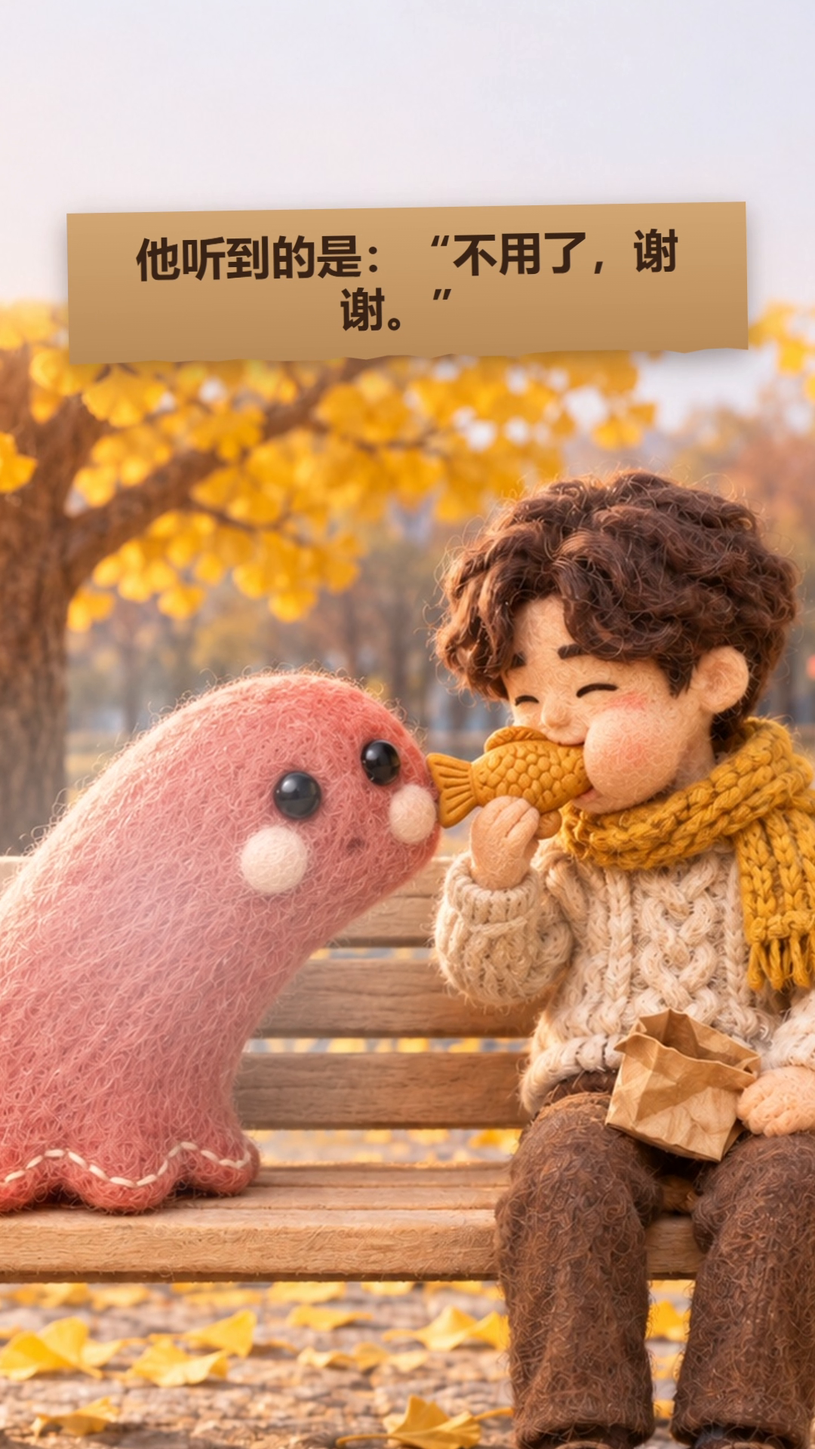
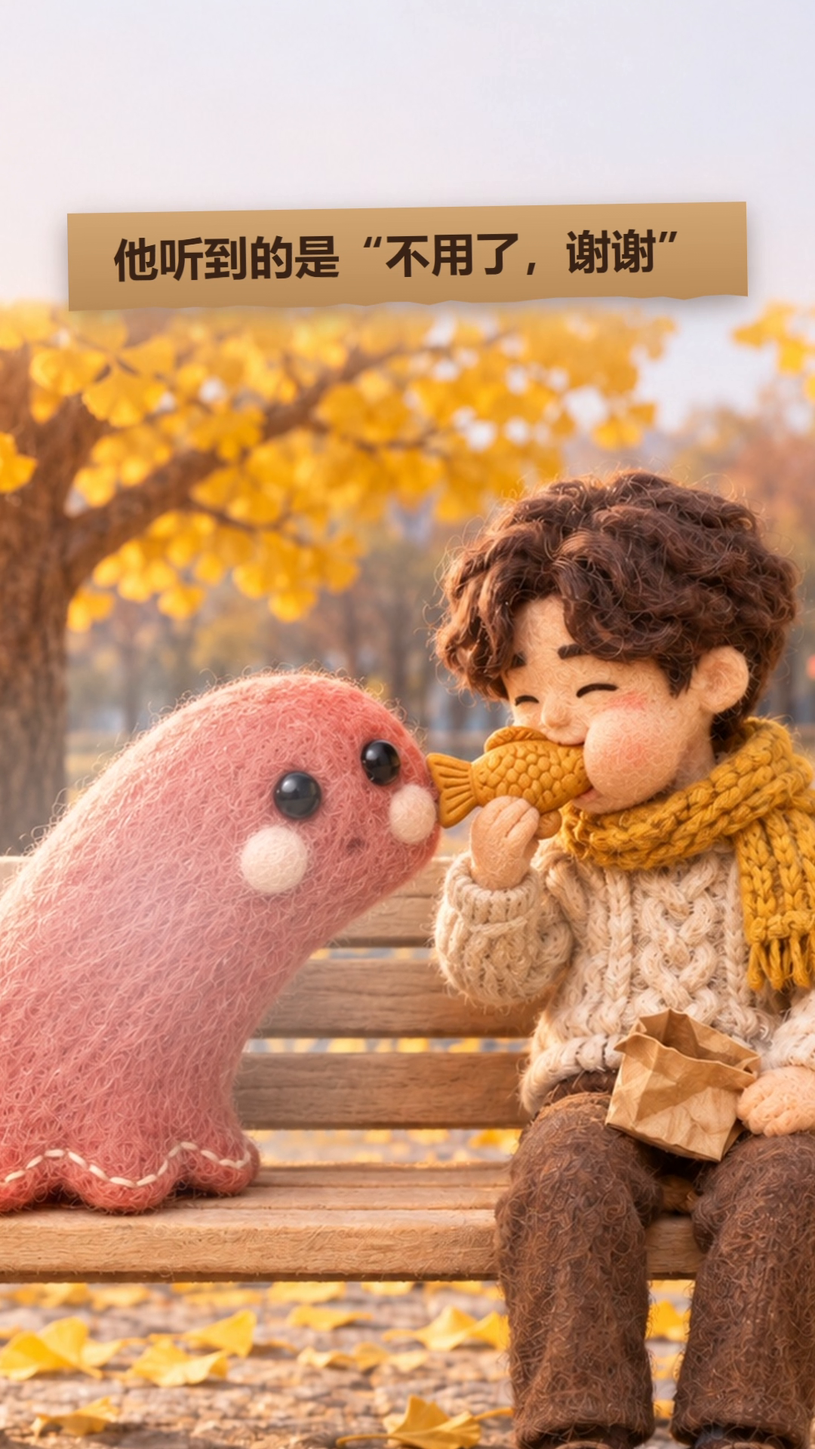
feat(LAB E31 「괜찮아요」 · 11-08 07시 · 마감): v10 — 끝 구도 넓힘(몽글 · 붕어빵 · 굳은 친구 손) · 끝 정리 한 색 · 큰 글 문장부호 뺌 · 머리 글 앱 안전선 아래. 미학 맹검은 아르곤이 다른 세션 올리기 잠금(07:13~)에 막혀 「맹검못함」 + Fable 대신 맹검(v9 끝 기각 → v10 고쳐서 냄 7 · 6 · 6). 올리기 전 검사 고칠 것 0 · 작업실등록

Changed region(s): [[0.0611, 0.1562, 0.9472, 0.2812]]

diff --git a/docs/마케팅/LAB_괜찮아요_20261108/remotion/src/e31/data.ts b/docs/마케팅/LAB_괜찮아요_20261108/remotion/src/e31/data.ts
@@ -30,61 +30,61 @@ type Pack = {
 };
 export const TEXT: Record<Lang, Pack> = {
   en: {
-    hook: `I said 괜찮아요…${NL}and lost my snack.`,
+    hook: `I said 괜찮아요${NL}and lost my snack`,
     bite: 'Want a bite?',
     think: `A bite?! Yes!${NL}I want it!`,
     means: '(I mean: YES!)',
     back: 'Oh, no thanks? Okay!',
     huh: 'Huh? Wait…!',
-    heard: 'He heard: "No, thanks."',
-    ate: '…so he ate it all.',
-    offers: 'When someone offers you something,',
-    no: 'No, thanks.',
-    want: 'Want it? Say:',
+    heard: 'He heard “No, thanks”',
+    ate: '…so he ate it all',
+    offers: 'When someone offers you something',
+    no: 'No, thanks',
+    want: 'Want it? Say',
     yes: 'Yes, please!',
     ask: 'Can I have one bite…?',
-    endHead: 'When someone offers:',
-    endNo: 'No, thanks.',
+    endHead: 'When someone offers',
+    endNo: 'No, thanks',
     endYes: 'Yes, please!',
     size: 64,
     subSize: 44,
   },
   cn: {
-    hook: `我说了“괜찮아요”…${NL}结果小吃没了。`,
+    hook: `我说了“괜찮아요”${NL}结果小吃没了`,
     bite: '要尝一口吗？',
     think: `尝一口？！要要要！${NL}我想吃！`,
     means: '（我的意思是：要！）',
     back: '哦，不吃啊？好嘞！',
     huh: '诶？等等…！',
-    heard: '他听到的是：“不用了，谢谢。”',
-    ate: '…于是他全吃光了。',
-    offers: '别人请你吃东西时，',
-    no: '不用了，谢谢。',
-    want: '想要的话，就说：',
+    heard: '他听到的是“不用了，谢谢”',
+    ate: '…于是他全吃光了',
+    offers: '别人请你吃东西时',
+    no: '不用了，谢谢',
+    want: '想要的话，就说',
     yes: '好呀，我要！',
     ask: '也给我尝一口…？',
-    endHead: '别人请你吃东西时：',
-    endNo: '不用了，谢谢。',
+    endHead: '别人请你吃东西时',
+    endNo: '不用了，谢谢',
     endYes: '好呀，我要！',
     size: 60,
     subSize: 42,
   },
   mm: {
-    hook: `"괜찮아요" လို့ ပြောမိလို့…${NL}မုန့် လွတ်သွားတယ်။`,
+    hook: `"괜찮아요" လို့ ပြောမိလို့${NL}မုန့် လွတ်သွားတယ်`,
     bite: 'တစ်ကိုက် စားမလား?',
     think: `တစ်ကိုက်?! စားမယ်!${NL}စားချင်တယ်!`,
     means: '(ဆိုလိုတာက: စားမယ်!)',
     back: 'အော်၊ မစားဘူးလား? ရပါပြီ!',
     huh: 'ဟင်? နေဦး…!',
-    heard: 'သူကြားလိုက်တာက "ရပါတယ်၊ မယူတော့ပါဘူး"။',
-    ate: '…ဒါနဲ့ သူ အကုန်စားလိုက်တယ်။',
+    heard: 'သူကြားလိုက်တာက "ရပါတယ်၊ မယူတော့ပါဘူး"',
+    ate: '…ဒါနဲ့ သူ အကုန်စားလိုက်တယ်',
     offers: 'တစ်ယောက်ယောက်က တစ်ခုခု ကမ်းပေးရင်',
-    no: 'ရပါတယ်၊ မယူတော့ပါဘူး။',
-    want: 'လိုချင်ရင် ဒီလို ပြောပါ:',
+    no: 'ရပါတယ်၊ မယူတော့ပါဘူး',
+    want: 'လိုချင်ရင် ဒီလို ပြောပါ',
     yes: 'ဟုတ်ကဲ့၊ ယူပါမယ်!',
     ask: 'ငါ့ကိုလည်း တစ်ကိုက်လောက်…?',
-    endHead: 'တစ်ယောက်ယောက်က ကမ်းပေးရင်:',
-    endNo: 'ရပါတယ်၊ မယူတော့ပါဘူး။',
+    endHead: 'တစ်ယောက်ယောက်က ကမ်းပေးရင်',
+    endNo: 'ရပါတယ်၊ မယူတော့ပါဘူး',
     endYes: 'ဟုတ်ကဲ့၊ ယူပါမယ်!',
     size: 48,
     subSize: 36,

diff --git a/docs/마케팅/LAB_괜찮아요_20261108/remotion/src/e31/Film.tsx b/docs/마케팅/LAB_괜찮아요_20261108/remotion/src/e31/Film.tsx
@@ -33,7 +33,7 @@ const SHOTS: Shot[] = [
   { at: T.again, img: 'again', cam: [480, 1120], z0: 1.04, z1: 1.08 },
   { at: T.eager, img: 'eager', cam: [380, 1150], z0: 1.16, z1: 1.06 },
   { at: T.got, img: 'got', cam: [400, 1160], z0: 1.0, z1: 1.08 },
-  { at: T.mirror, img: 'mirror', cam: [560, 1180], z0: 1.38, z1: 1.46 },
+  { at: T.mirror, img: 'mirror', cam: [470, 1140], z0: 1.12, z1: 1.18 },
 ];
 const shotAt = (t: number) => {
   let k = 0;
@@ -205,14 +205,14 @@ const EndCard: React.FC<{ t: number; lang: Lang }> = ({ t, lang }) => {
   const line = (at: number, ko: string, en: string, color: string) => (
     <div style={{ opacity: fadeIn(t, at, 0.2), transform: `translateY(${(1 - fadeIn(t, at, 0.2)) * 10}px)`, whiteSpace: 'nowrap', marginTop: 6 }}>
       <span style={{ fontFamily: KO, fontWeight: 900, fontSize: 78, lineHeight: 1.1, color }}>{ko}</span>
-      <span style={{ fontFamily: FONT[lang], fontWeight: 800, fontSize: lang === 'mm' ? 40 : 52, lineHeight: 1.1, color: C.brown, marginLeft: 14 }}>= {en}</span>
+      <span style={{ fontFamily: FONT[lang], fontWeight: 700, fontSize: lang === 'mm' ? 40 : 50, lineHeight: 1.1, color: C.brown, marginLeft: 18, opacity: 0.88 }}>· {en}</span>
     </div>
   );
   return (
     <Kraft t={t} at={T.mirror + 0.3} until={T.total + 1} lang={lang} top={275} size={L.size * 0.78}>
       {L.endHead}
-      {line(T.mirror + 0.5, '괜찮아요', L.endNo, '#A8321F')}
-      {line(T.mirror + 0.85, '네, 좋아요!', L.endYes, '#3D2A10')}
+      {line(T.mirror + 0.5, '괜찮아요', L.endNo, C.brown)}
+      {line(T.mirror + 0.85, '네, 좋아요!', L.endYes, C.brown)}
     </Kraft>
   );
 };
@@ -280,6 +280,7 @@ export const Film: React.FC<{ lang: Lang; scene?: boolean }> = ({ lang, scene })
     <AbsoluteFill style={{ background: '#2B1A14' }}>
       <Plate t={t} />
       <Glints t={t} />
+      {t >= T.mirror && t < T.mirror + 0.4 ? <AbsoluteFill style={{ background: 'rgba(225,242,255,1)', opacity: interpolate(t, [T.mirror, T.mirror + 0.05, T.mirror + 0.4], [0, 0.85, 0], clamp) }} /> : null}
       {/* 말풍선 — 친구는 오른쪽 위에서 */}
       <Bubble t={t} from={T.offer} until={T.close} x={640} y={600} tail={0.7} size={74} sub={L.bite} subFont={FONT[lang]} w={560}>한 입 먹을래?</Bubble>
       <Bubble t={t} from={T.reply} until={T.bite + 0.1} x={600} y={600} tail={0.85} size={70} sub={L.back} subFont={FONT[lang]} w={lang === 'mm' ? 760 : 640}>아, 괜찮아? 알았어!</Bubble>

diff --git a/docs/마케팅/기획장부/LAB.md b/docs/마케팅/기획장부/LAB.md
@@ -215,7 +215,7 @@
 
 | 번호 | 기획 | 갈래 | 상태 | 편 폴더 | 근거 · 첫 2초 · 댓글 놀이 · 조건 |
 |---|---|---|---|---|---|
-| E31 | 「괜찮아요」는 yes가 아니라 no thanks — 케이크 한 입을 권하자 신나서 「괜찮아요!」, 마지막 한 입은 친구 입으로 | 오마주 같은분야 · 권위 · 근거 B(턱걸이) | **완성(관문 못 넘음 — ⑧ haiku 「같아 보임」 · 11-08 07시 회차 · 답 없음 — 순위 1 · 11-07 스캔 순서 「11-12 E31」에 유호님 11-07 「순서대로 진행해」 · 슬롯 11-12(목) 21:00 @synkkorean · 30.0초 · 케이크는 11-10 E21 끝과 겹쳐 11월 붕어빵 · 은행잎 공원 벤치로 · 「한 입 먹을래?」에 먹고 싶어 신나서 「괜찮아요!」 → 「아, 괜찮아? 알았어!」 친구 입으로 → 친구 쪽으로 늘어난 몽글이 핏기 빠져 굳음(장면 심사 v2 통과) → 「He heard: No, thanks.」 · 빈 봉지 앞 납작 → 누가 권하면 괜찮아요 = No, thanks · 받으려면 네, 좋아요! → 속삭임 연습 → 새 붕어빵에 묻자마자 「네, 좋아요!」 → 「나도 한 입만…」 친구 손이 허공에서 굳음 · 원본 90S7dz45Drk 나란히 다섯 맞음 · 이해 s5 · h4 · G4 · K4 · 재미 4 · 3 · 3 · 3 · 끝까지 · 저장 · 볼 이유 이야기 · 3 · 아님 — 편 폴더 기획.md 「판정」)** + 두 채널 판 완성(관문 통과 — 머리말 순서 3: 영어 목소리 없는 편, 몽골 틱톡에 안 가 버마어도 같은 날 · 샤오훙수 간체 11-12 22:00 · 틱톡 버마어 @synklab.mm 11-12 22:30 · 현지어 세 겹 · 간체 이해 4 · 3 · 4 · 버마어 4 · 3 · 4) ·  · 순위 1(11-05 — 슬롯 11-12(목) · 같아 보임 아니오(다만 같은 주 11-09 E27 고깃집과 「음식점에서 말 하나 틀려 손해」 짜임이 겹침) · 조건부 셋: ⑴ 훅에 손해를 먼저 — 「I said 괜찮아요 and lost my cake」 꼴, 「Want a bite?」는 상황일 뿐 약속이 없다 ⑵ 마지막 한 입이 접시에서 친구 입으로 가는 동작 · 몽글 포크가 허공에서 멈추는 박(정지 핵심 칸으로는 「뺏겼다」가 안 읽힘) ⑶ 첫 장면에서 몽글이 「좋다」는 뜻으로 말했다는 게 읽히게 — 신난 몸짓을 크게 또는 머릿속 「okay = yes!」 한 줄 · 11-06 동영상 언어 시험이 11-10까지 콩트를 못 띄우면 예비) | [LAB_괜찮아요_20261108](../LAB_괜찮아요_20261108/기획.md) | **무엇으로 이기나:** 이야기의 반전 — 「좋아요」라는 뜻으로 한 「괜찮아요!」가 거절로 들려 케이크를 잃는다, 끝에 받는 말 「네, 좋아요!」. **원본** https://www.youtube.com/shorts/90S7dz45Drk · 같은분야 · Jin 「"It's Okay" or "No Thank You"? 괜찮아요!」 4.4천 · ×3.3 · 10-29 · 42초 · 댓글 2(「도움이 됐다」 · 「억양은 어떻게」 — 까닭이 얇아 B 턱걸이). **한 문장:** "When someone offers, 괜찮아요 = no thanks. Say 네, 좋아요! to accept." **첫 2초:** 「"Want a bite?"」 + 포크를 내미는 친구 + 신난 몽글 「괜찮아요!」(`E31_첫2초.jpg`). **핵심 칸** `E31_핵심칸.jpg` — haiku 「유령 캐릭터가 '괜찮아요…?'라고 놀란 표정이고, 옆 사람은 포크로 케이크를 먹는 중」(놀람은 읽힘, 빈 접시 · 「뺏겼다」는 안 읽힘). **댓글 놀이:** 「What else does 괜찮아요 mean? 👇」. **먼저:** 권유에 답하는 「괜찮아요」 = 사양(맥락 따라 「괜찮다 = 좋다」로도 쓰임)을 사전 · 교재 원문으로 사실 검수 |
+| E31 | 「괜찮아요」는 yes가 아니라 no thanks — 케이크 한 입을 권하자 신나서 「괜찮아요!」, 마지막 한 입은 친구 입으로 | 오마주 같은분야 · 권위 · 근거 B(턱걸이) | **완성(관문 못 넘음 — ⑧ haiku 「같아 보임」 · 11-08 07시 회차 · 답 없음 — 순위 1 · 11-07 스캔 순서 「11-12 E31」에 유호님 11-07 「순서대로 진행해」 · 슬롯 11-12(목) 21:00 @synkkorean · 30.0초 · 케이크는 11-10 E21 끝과 겹쳐 11월 붕어빵 · 은행잎 공원 벤치로 · 「한 입 먹을래?」에 먹고 싶어 신나서 「괜찮아요!」 → 「아, 괜찮아? 알았어!」 친구 입으로 → 친구 쪽으로 늘어난 몽글이 핏기 빠져 굳음(장면 심사 v2 통과) → 「He heard: No, thanks.」 · 빈 봉지 앞 납작 → 누가 권하면 괜찮아요 = No, thanks · 받으려면 네, 좋아요! → 속삭임 연습 → 새 붕어빵에 묻자마자 「네, 좋아요!」 → 「나도 한 입만…」 친구 손이 허공에서 굳음 · 원본 90S7dz45Drk 나란히 다섯 맞음 · 이해 s5 · h4 · G4 · K4 · 재미 4 · 3 · 3 · 3 · 끝까지 · 저장 · 볼 이유 이야기 · 3 · 아님 · 미학 맹검은 아르곤이 다른 세션 잠금으로 막혀 Fable이 대신 — 고쳐서 냄 7 · 6 · 6 — 편 폴더 기획.md 「판정」 · 「미학 맹검」)** + 두 채널 판 완성(관문 통과 — 머리말 순서 3: 영어 목소리 없는 편, 몽골 틱톡에 안 가 버마어도 같은 날 · 샤오훙수 간체 11-12 22:00 · 틱톡 버마어 @synklab.mm 11-12 22:30 · 현지어 세 겹 · 간체 이해 4 · 3 · 4 · 버마어 4 · 3 · 4) ·  · 순위 1(11-05 — 슬롯 11-12(목) · 같아 보임 아니오(다만 같은 주 11-09 E27 고깃집과 「음식점에서 말 하나 틀려 손해」 짜임이 겹침) · 조건부 셋: ⑴ 훅에 손해를 먼저 — 「I said 괜찮아요 and lost my cake」 꼴, 「Want a bite?」는 상황일 뿐 약속이 없다 ⑵ 마지막 한 입이 접시에서 친구 입으로 가는 동작 · 몽글 포크가 허공에서 멈추는 박(정지 핵심 칸으로는 「뺏겼다」가 안 읽힘) ⑶ 첫 장면에서 몽글이 「좋다」는 뜻으로 말했다는 게 읽히게 — 신난 몸짓을 크게 또는 머릿속 「okay = yes!」 한 줄 · 11-06 동영상 언어 시험이 11-10까지 콩트를 못 띄우면 예비) | [LAB_괜찮아요_20261108](../LAB_괜찮아요_20261108/기획.md) | **무엇으로 이기나:** 이야기의 반전 — 「좋아요」라는 뜻으로 한 「괜찮아요!」가 거절로 들려 케이크를 잃는다, 끝에 받는 말 「네, 좋아요!」. **원본** https://www.youtube.com/shorts/90S7dz45Drk · 같은분야 · Jin 「"It's Okay" or "No Thank You"? 괜찮아요!」 4.4천 · ×3.3 · 10-29 · 42초 · 댓글 2(「도움이 됐다」 · 「억양은 어떻게」 — 까닭이 얇아 B 턱걸이). **한 문장:** "When someone offers, 괜찮아요 = no thanks. Say 네, 좋아요! to accept." **첫 2초:** 「"Want a bite?"」 + 포크를 내미는 친구 + 신난 몽글 「괜찮아요!」(`E31_첫2초.jpg`). **핵심 칸** `E31_핵심칸.jpg` — haiku 「유령 캐릭터가 '괜찮아요…?'라고 놀란 표정이고, 옆 사람은 포크로 케이크를 먹는 중」(놀람은 읽힘, 빈 접시 · 「뺏겼다」는 안 읽힘). **댓글 놀이:** 「What else does 괜찮아요 mean? 👇」. **먼저:** 권유에 답하는 「괜찮아요」 = 사양(맥락 따라 「괜찮다 = 좋다」로도 쓰임)을 사전 · 교재 원문으로 사실 검수 |
 | E30 | 노잼 · 꿀잼 — 「잼」은 jam이 아니라 fun: 지루한 친구에게 잼 병, 신난 친구에게 꿀단지 + 잼 병 | 오마주 같은분야 · 유입 · 근거 B | 순위 2(11-05 — 슬롯 11-13(금) → **11-07 관문이 11-14(토)로 미룸**(E31 · E30 몽글 + 사람 친구 + 먹을 것 콩트가 이틀 잇따르지 않게 11-13에 E32 시계 편을 끼움) · 같아 보임 부분: 11-10 E21 「-지 마」와 같은 「몽글이 말을 글자 그대로 알아듣는다」 콩트 + 펠트 집 무대 — 다른 것은 두 박자(노잼 → 꿀잼)와 꿀 흐르는 끝 그림 · 조건부 셋: ⑴ 훅은 원본이 터진 자리 그대로 — 「Koreans call fun things "honey jam"」 / 「"no jams"의 진짜 뜻」(「POV: your Korean friend says this」는 밈을 버린 일반 문구) ⑵ 핵심 칸에서 「몽글이 가져왔다」가 보이게 — 잼 병이 몽글 쪽에서 날아와 친구 눈앞에 멈추고, 친구가 TV에서 눈을 떼 병을 보는 「…?」 한 박 ⑶ 끝 카드: 잼 ≠ jam, 잼 = 재미(fun), 꿀잼 = honey-fun · 위험: 11-04 E22 「물고기」(글자 그대로 vs 실제 뜻) 하루 14회) | | **무엇으로 이기나:** 한 장면의 임팩트 — 영화가 지루한 친구가 「노잼…」 하자 몽글이 딸기잼 병을 내밀고, 영화가 터지자 「꿀잼!」 → 몽글이 꿀단지와 잼 병을 들고 와 소파에 꿀이 흐른다(관문: 열 장 중 가장 재밌는 한 장). **원본** https://www.youtube.com/shorts/zAiwe1tfnqc · 같은분야 · K-WORD 「Koreans Call Fun Things "Honey Jam"」 8.7천 · ×4.3 · 10-26 · 37초 · 좋아요율 5.7% · 댓글 18. **근거 B(댓글):** 아이돌 예능의 유명 밈 「you got no jams」(11 · 9) · 「완전 꿀잼이야!!」(3) · 「요즘은 꿀잼보다 노잼을 더 쓴다」(2). **한 문장:** "잼 means fun, not jam — 노잼 = boring, 꿀잼 = super fun." **첫 2초:** `E30_첫2초.jpg` — 하품하는 친구 「노잼…」 + 떠 있는 잼 병. **핵심 칸** `E30_핵심칸.jpg` — haiku 「소녀가 TV 추격전을 보며 '꿀잼!'이라고 좋아하는 동안 꿀단지와 딸기잼 병이 공중에 떠서 꿀이 흘러내린다」(꿀잼 → 꿀 + 잼은 읽힘, 몽글이 가져온 건 안 읽힘). **댓글 놀이:** 「Your last 노잼 movie? 👇」. **먼저:** 잼 = 「재미」의 줄임 · 「꿀잼」이 지금도 쓰이는지 사전 원문으로 사실 검수. 실존 아이돌 이름 · 얼굴은 쓰지 않는다 |
 | M32 | 교수님께 「수고하세요」? — 윗사람께는 「안녕히 계세요」: 얼어붙는 연구실 ↔ 햇살 연구실 | 오마주 같은분야(형식) + 우리 주제 · 권위 · 근거 A | 순위 1(11-05 — 슬롯 11-13(금) · 네 계정을 통틀어 가장 끝까지 볼 것 · 같아 보임 아니오 · 만든다 · 권고 셋: ⑴ 첫 2초에 몽골어 훅 한 줄 — 한글 말풍선만으로는 몽골 초보가 「이게 틀렸다」를 모르고 교수의 어색한 웃음은 작게 읽힘 ⑵ 얼음은 교수 책상부터 서리가 퍼지는 전환 모션으로 — 그 장면이 「한 장면」 ⑶ 위아래 나눈 화면은 끝 카드에만, 본편은 전체 화면 순서 컷) | | **무엇으로 이기나:** 한 장면의 임팩트(같은 사람 전후) — 연구실을 나서며 몽글이 「교수님, 수고하세요!」 → 방이 얼음으로 얼어붙음 → 다시 「안녕히 계세요!」 → 같은 교수님이 햇살 속에서 웃으며 손을 흔듦. **원본** https://www.youtube.com/shorts/sbTuV7DVEw4 · 같은분야(언어 배우기) · Rosetta Stone 「Germans before & after you say hello」 7.8천 · ×13.3 · 11-04 · 28초(댓글 0 — 형식의 근거만). **근거 A:** 우리 「미안 · 죄송합니다」(윗사람에게 「미안」 하지 마, 11-03) 24시간 인스타 2,832회 · 평소의 21.6배 · 공유 20 · 저장 28, 페북 14,555회 · 65배 · 10-22 몽골 수요 조사 「반말 · 존댓말(어른에게 써도 되나)」. **한 문장:** 「친구 · 동료에겐 '수고하세요', 교수님 · 사장님께는 '안녕히 계세요'」(몽골어 판은 만들 때 세 겹 검수). **첫 2초:** `M32_첫2초.jpg` — 문 앞에서 꾸벅 인사하는 몽글 「교수님, 수고하세요!」 + 펜을 멈추고 어색하게 웃는 교수. **핵심 칸** `M32_핵심칸.jpg` — haiku 「얼어붙은 사무실에서 '수고하세요!'라고 인사하자 … 따뜻한 햇살이 든 같은 방에서 손을 흔들며 '안녕히 계세요!'」(얼음 ↔ 햇살 대비는 읽힘, 아래 인사를 교수의 말로 읽음 — 관문 ⑶대로 순서 컷이면 풀림). **댓글 놀이:** 교수님께 하는 인사를 몽골어로 묻는 한 줄(문구는 만들 때). **먼저:** 국립국어원 「표준 언어 예절」 원문 확인 — 11-05 검색으로는 국립국어원 묻고 답하기를 옮긴 2차 자료가 「윗사람에게는 '수고하세요'류를 쓰지 않고 '감사합니다' · '안녕히 계십시오'」이고 「현실에선 윗사람에게도 쓰는 경우가 많다」고 덧붙인다 — 단정 대신 「실례로 듣는 분이 있다」로 쓴다 |
 

diff --git a/docs/마케팅/LAB_괜찮아요_20261108/기획.md b/docs/마케팅/LAB_괜찮아요_20261108/기획.md
@@ -62,7 +62,7 @@
 - 그림(GPT 이미지 · 구독 경로 bake3, `굽기.cjs`, 지시문 `판/*.txt`): 바탕 `제안` 한 장을 먼저 굽고 그 판을 Image 1로 신남 · 거둠 · 냠 · 새것 · 네좋아요 · 받음 · 거울 일곱 장을 같은 무대로, 반짝 · 빈봉지 · 연습은 따로. 펠트 글자판(「괜찮아요!」 · 「네, 좋아요!」)은 맑은 고딕 조판 원고를 첫 참고로 넣어 받침까지 맞게 구운 뒤 `tools/펠트_흰바탕오리기.py`로 오림 — 노란 은행나무 위에서 안 읽혀(첫 렌더에서 내가 봄) 짙은 펠트 판 위에 얹었다.
 - 움직임: 같은 그림의 몽글 · 친구 자리만 따로 숨 · 튐 · 기울기 · 떨림 · 납작 · 부풂(`Patch`), 굳는 순간 핏기 빼기 + 얼음빛(색이 깨져 보인다는 장면 심사 v2 지적에 빼기를 덜고 빛을 얹음), 구성 당김으로 박자.
 - 소리: `소리/만들기.py`로 공원 바람 · 은행잎 · 새 · 종이봉지 · 냠 · 얼음 「칭」 · 바람 빠짐 · 통 · 반짝 · 뽁 · 휙 · 탁을 직접 만듦, 음악은 보유곡 「밝은_052」(지난 두 편과 다른 곡). 목소리(`음성/계획.json` · 75크레딧): 몽글 도윤 · 친구 범수 · 풀이 소진(세기 1.0), 최고 음높이 430Hz · 잘림 0.
-- 최종본: `remotion/out/e31_v9.mp4`(· `e31_cn_v9` · `e31_mm_v9`) → `소리/마감.sh v9`(음량 마감 −14.7 LUFS · −1.4 dBFS → CBR 10M `게시/0x/video.mp4`, 10MB 판 영어 · 간체), 표지 12.9초(친구가 먹고 몽글이 굳은 장면).
+- 최종본: `remotion/out/e31_v10.mp4`(· `e31_cn_v10` · `e31_mm_v10`) → `소리/마감.sh v10`(음량 마감 −14.7 LUFS · −1.4 dBFS → CBR 10M `게시/0x/video.mp4`, 10MB 판 영어 · 간체), 표지 12.9초(친구가 먹고 몽글이 굳은 장면).
 
 ## 이해 시험 · 볼 이유
 
@@ -89,4 +89,13 @@
 
 ## 판정
 
-**완성(관문 못 넘음 — 11-08, 제작 절차 「매일 한 편」 2).** 올릴 판 v9(시험은 v8). 못 넘은 것은 ⑧ haiku 「같아 보임」 하나다 — 머리 띠 · 한국어 말풍선 + 영어 뜻 · 끝 정리를 11-02 E21 「지 마」와 같다고 봤다(v5~v8, 끝 정리를 크림 알약에서 종이 띠로 바꿔도 남음). sonnet · GPT · 그록은 v7 · v8에서 무대 · 말 순서 · 끝이 다 다르다고 했다. LAB 펠트 편마다 haiku 한 명이 짚는 같은 자리(E27 · E29 · M28 · M29 · M31)라 계정 글 꼴 몫으로 본다. 나머지는 넘었다 — 장면 심사 v2, 답 1 넷 다 한 문장과 같음, 끝까지(넘긴 초는 모두 결과 뒤), 이해 s5 · h4(v8) · G4 · K4(v7), 재미 s4 · h3(v8), 첫 3초 계속 봄, 저장, 볼 이유 이야기 · 3 · 아님, 원본과 나란히 다섯 항목, 현지어 세 겹, 올리기 전 검사(맹검 뒤 다시). 아르곤 첫 분석은 줄 선 지 31분이 지나 접었다(「아르곤 못 받음(차례 31분)」 — 칸 그림으로 Claude 확정, 혼자 말하는 설명 영상이라 소리 · 글은 칸 그림 자막으로 다 읽혔다).
+**완성(관문 못 넘음 — 11-08, 제작 절차 「매일 한 편」 2).** 올릴 판 v10(시험은 v8 — v9 · v10은 글 자리 · 끝 구도 · 끝 정리 색 · 문장부호만 바꿈). 못 넘은 것은 ⑧ haiku 「같아 보임」 하나다 — 머리 띠 · 한국어 말풍선 + 영어 뜻 · 끝 정리를 11-02 E21 「지 마」와 같다고 봤다(v5~v8, 끝 정리를 크림 알약에서 종이 띠로 바꿔도 남음). sonnet · GPT · 그록은 v7 · v8에서 무대 · 말 순서 · 끝이 다 다르다고 했다. LAB 펠트 편마다 haiku 한 명이 짚는 같은 자리(E27 · E29 · M28 · M29 · M31)라 계정 글 꼴 몫으로 본다. 나머지는 넘었다 — 장면 심사 v2, 답 1 넷 다 한 문장과 같음, 끝까지(넘긴 초는 모두 결과 뒤), 이해 s5 · h4(v8) · G4 · K4(v7), 재미 s4 · h3(v8), 첫 3초 계속 봄, 저장, 볼 이유 이야기 · 3 · 아님, 원본과 나란히 다섯 항목, 현지어 세 겹, 올리기 전 검사(맹검 뒤 다시). 아르곤 첫 분석은 줄 선 지 31분이 지나 접었다(「아르곤 못 받음(차례 31분)」 — 칸 그림으로 Claude 확정, 혼자 말하는 설명 영상이라 소리 · 글은 칸 그림 자막으로 다 읽혔다).
+
+## 미학 맹검
+
+**아르곤 못 받음(준비.json 「맹검못함」).** 다른 세션의 아르곤웹(argonweb-779816, pid 25504)이 07:13부터 아르곤 올리기 잠금을 쥔 채 살아 있어 08:00~09:30 차례가 오지 않았다 — 남의 프로세스라 건드리지 않았다. 같은 지시문(`tools/미학맹검.js --준비만` — 슬롭 점검표 · 유호님 기준을 붙인 것)을 Fable에게 대신 보였다(`.tmp/미학맹검/lab-e31-1108-fable` · `-fable2`, git 밖).
+
+| 판 | 첫 화면 | 가운데(굳는 장면) | 끝 화면 | 고친 것 |
+|---|---|---|---|---|
+| v9 | 고쳐서 냄 7 | 고쳐서 냄 6 | **기각 5** — 몽글이 왼쪽에 반쯤 잘리고 붕어빵도 화면 밖 · 다섯 색 「요약 박스」 · 큰 글 끝 마침표 | 끝 구도를 1.38 → 1.16배로 넓혀 몽글 · 품은 붕어빵 · 굳은 친구 손이 다 들어오게(끝 박자는 얼음빛 번쩍 0.3초), 끝 정리를 한 색 · 가는 점으로, 큰 글 마침표 · 쌍점 뺌 |
+| **v10** | 고쳐서 냄 7 | 고쳐서 냄 6 | **고쳐서 냄 6** | (남김) 크래프트 띠가 기성 종이 라벨 꼴 · 신난 몽글 얼굴이 멍함 · 굳는 컷 몽글만 연분홍 긴 털 · 흰 볼(냠 판 굽기 결 + 핏기 빼기) · 끝이 첫 화면과 같은 벤치 구도 — 다시 굽기 · 다시 시험이 드는 자리라 이 회차에는 두었다 |
